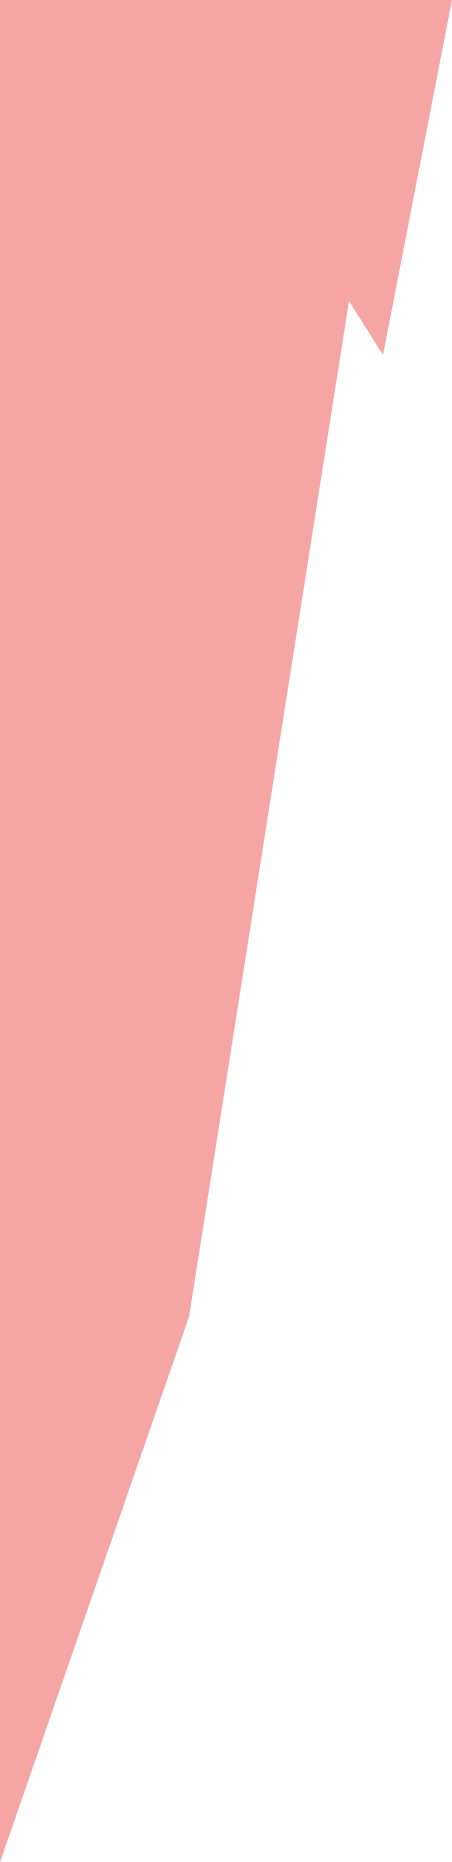
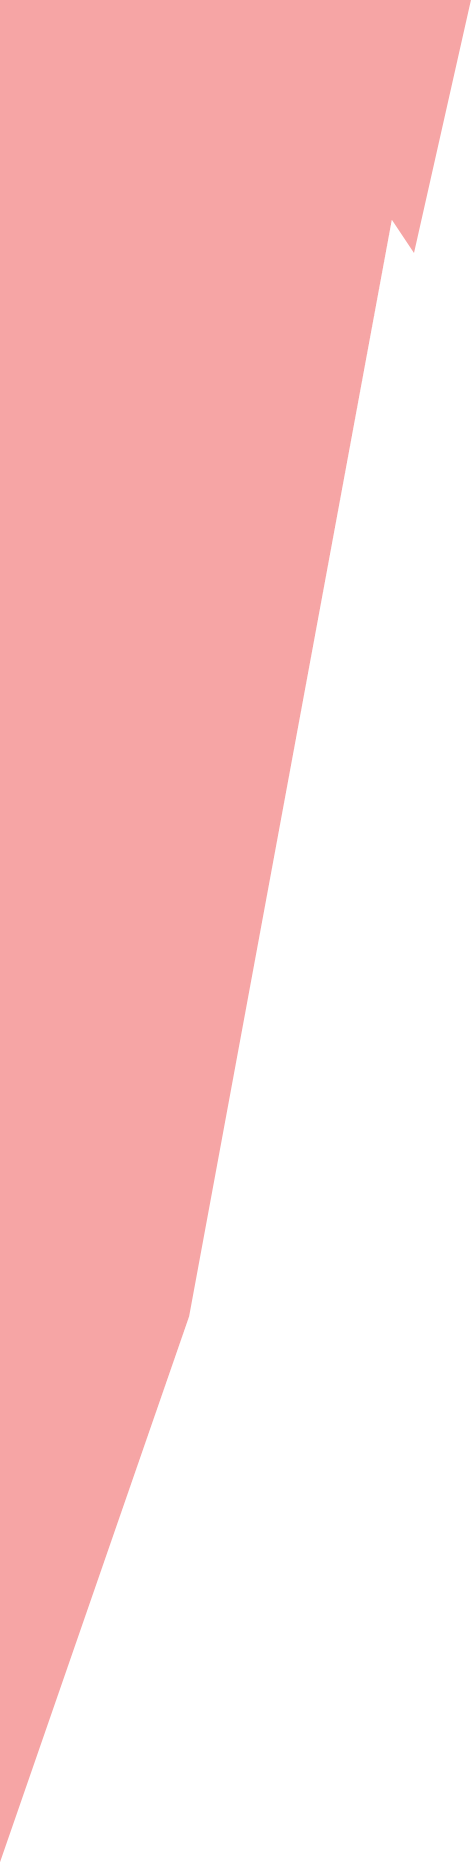
flash animation improve
Former-commit-id: cc1ac204618f8c54f5a81b9d001925c3726f023d
Former-commit-id: 0dd4195f506439e96082fa592c4e273335b32c09

diff --git a/QZBQuizBattle/QZBEndGameVC.m b/QZBQuizBattle/QZBEndGameVC.m
@@ -524,28 +524,40 @@ navigation
     CGRect mainRect = [UIScreen mainScreen].bounds;
 
     CGRect rLeft = CGRectMake(0, -CGRectGetHeight(mainRect) * 1.4,
-                              0.6 * CGRectGetWidth(mainRect), 1.4 * CGRectGetHeight(mainRect));
+                              0.61 * CGRectGetWidth(mainRect), 1.4 * CGRectGetHeight(mainRect));
 
-    CGRect rRight = CGRectMake(0.25 * CGRectGetWidth(mainRect), CGRectGetHeight(mainRect),
-                               0.75 * CGRectGetWidth(mainRect), 1.2*CGRectGetHeight(mainRect));
+    CGRect rRight = CGRectMake(0.247 * CGRectGetWidth(mainRect), CGRectGetHeight(mainRect),
+                               0.755 * CGRectGetWidth(mainRect), 1.2*CGRectGetHeight(mainRect));
+    
+    CGRect rFlash = CGRectMake(0.25 * CGRectGetWidth(mainRect),
+                               0,
+                               0.42*CGRectGetWidth(mainRect),
+                               0.95*CGRectGetHeight(mainRect));
 
     UIImageView *leftImage = [[UIImageView alloc] initWithFrame:rLeft];
     UIImageView *rightImage = [[UIImageView alloc] initWithFrame:rRight];
+    UIImageView *flashImage = [[UIImageView alloc] initWithFrame:rFlash];
+    flashImage.alpha = 0.0;
+    
+    flashImage.image = [UIImage imageNamed:@"flashWhite"];
 
     if (self.firstUserScore < self.secondUserScore) {
         leftImage.image = [UIImage imageNamed:@"leftRed"];
         rightImage.image = [UIImage imageNamed:@"rightGreen"];
     } else if (self.firstUserScore > self.secondUserScore) {
         leftImage.image = [UIImage imageNamed:@"leftGreen"];
-        rightImage.image = [UIImage imageNamed:@"rightRed"];
+        rightImage.image = [UIImage imageNamed:@"rightRed"];\
     } else {
         return;
     }
 
+    [self.tableView.backgroundView addSubview:flashImage];
+    [self.tableView.backgroundView sendSubviewToBack:flashImage];
     [self.tableView.backgroundView addSubview:rightImage];
     [self.tableView.backgroundView sendSubviewToBack:rightImage];
     [self.tableView.backgroundView addSubview:leftImage];
     [self.tableView.backgroundView sendSubviewToBack:leftImage];
+    
 
     [UIView animateWithDuration:0.5
         delay:0.0
@@ -555,8 +567,10 @@ navigation
                 CGRectMake(0, 0, CGRectGetWidth(leftImage.frame), 1.4 * CGRectGetHeight(mainRect));
 
             rightImage.frame =
-                CGRectMake(0.25 * CGRectGetWidth(mainRect), -CGRectGetHeight(mainRect) * 0.2,
-                           0.75 * CGRectGetWidth(mainRect), CGRectGetHeight(mainRect) * 1.2);
+                CGRectMake(0.245 * CGRectGetWidth(mainRect), -CGRectGetHeight(mainRect) * 0.2,
+                           CGRectGetWidth(rightImage.frame), CGRectGetHeight(mainRect) * 1.2);
+            
+            flashImage.alpha = 1.0;
         }
         completion:^(BOOL finished){
 

diff --git a/QZBQuizBattle/UIView+QZBShakeExtension.m b/QZBQuizBattle/UIView+QZBShakeExtension.m
@@ -64,6 +64,20 @@
     self.layer.shadowRadius = 2.0;
     self.layer.shadowOpacity = 0.5;
     
+//    self.layer.shouldRasterize = YES;
+//    self.layer.rasterizationScale = [UIScreen mainScreen].scale;
+}
+
+-(void)addShadowsAllWay{
+    
+    self.layer.shadowColor = [UIColor grayColor].CGColor;
+    self.layer.shadowOffset = CGSizeMake(0.0, 0.0);
+    self.layer.shadowRadius = 3.0;
+    self.layer.shadowOpacity = 0.6;
+    
+    self.layer.shouldRasterize = YES;
+    self.layer.rasterizationScale = [UIScreen mainScreen].scale;
+    
 }
 
 -(void)addShadowsCategory{

diff --git a/QZBQuizBattle/QZBTopicTableViewCell.m b/QZBQuizBattle/QZBTopicTableViewCell.m
@@ -44,11 +44,11 @@
     }
 
 
-    if (progress > 0 && level > 0) {
+    if (progress > 0 || level > 0) {
         
         self.topicProgressView.centralView = self.centralLabel;
         self.topicProgressView.tintColor = [UIColor blackColor];
-        self.centralLabel.text = [NSString stringWithFormat:@"%ld", level];
+        self.centralLabel.text = [NSString stringWithFormat:@"%ld", (long)level];
         self.topicProgressView.progress = progress;
 
     } else {

diff --git a/QZBQuizBattle/QZBEndGameMainCell.m b/QZBQuizBattle/QZBEndGameMainCell.m
@@ -51,7 +51,7 @@
     self.opponentBV.badgeBackgroundColor = [UIColor transperentLightBlueColor];
     
     
-    [self.resultOfSessionLabel addShadows];
+    [self.resultOfSessionLabel addShadowsAllWay];
     [self.userNameLabel addShadows];
     [self.opponentNameLabel addShadows];
 }

diff --git a/QZBQuizBattle/QZBMainGameScreenTVC.m b/QZBQuizBattle/QZBMainGameScreenTVC.m
@@ -85,7 +85,7 @@
 
     // self.workArray = [NSMutableArray array];
 
-    self.title = @"iQuiz";  // REDO
+    self.title = @"1 на 1";  // REDO
 
     [self initStatusbarWithColor:[UIColor blackColor]];
     

diff --git a/QZBQuizBattle/UIView+QZBShakeExtension.h b/QZBQuizBattle/UIView+QZBShakeExtension.h
@@ -13,6 +13,7 @@
 - (void)shakeView;
 - (void)addDropShadowsForView;
 - (void)addShadows;
+- (void)addShadowsAllWay;
 
 -(void)addShadowsCategory;
 
